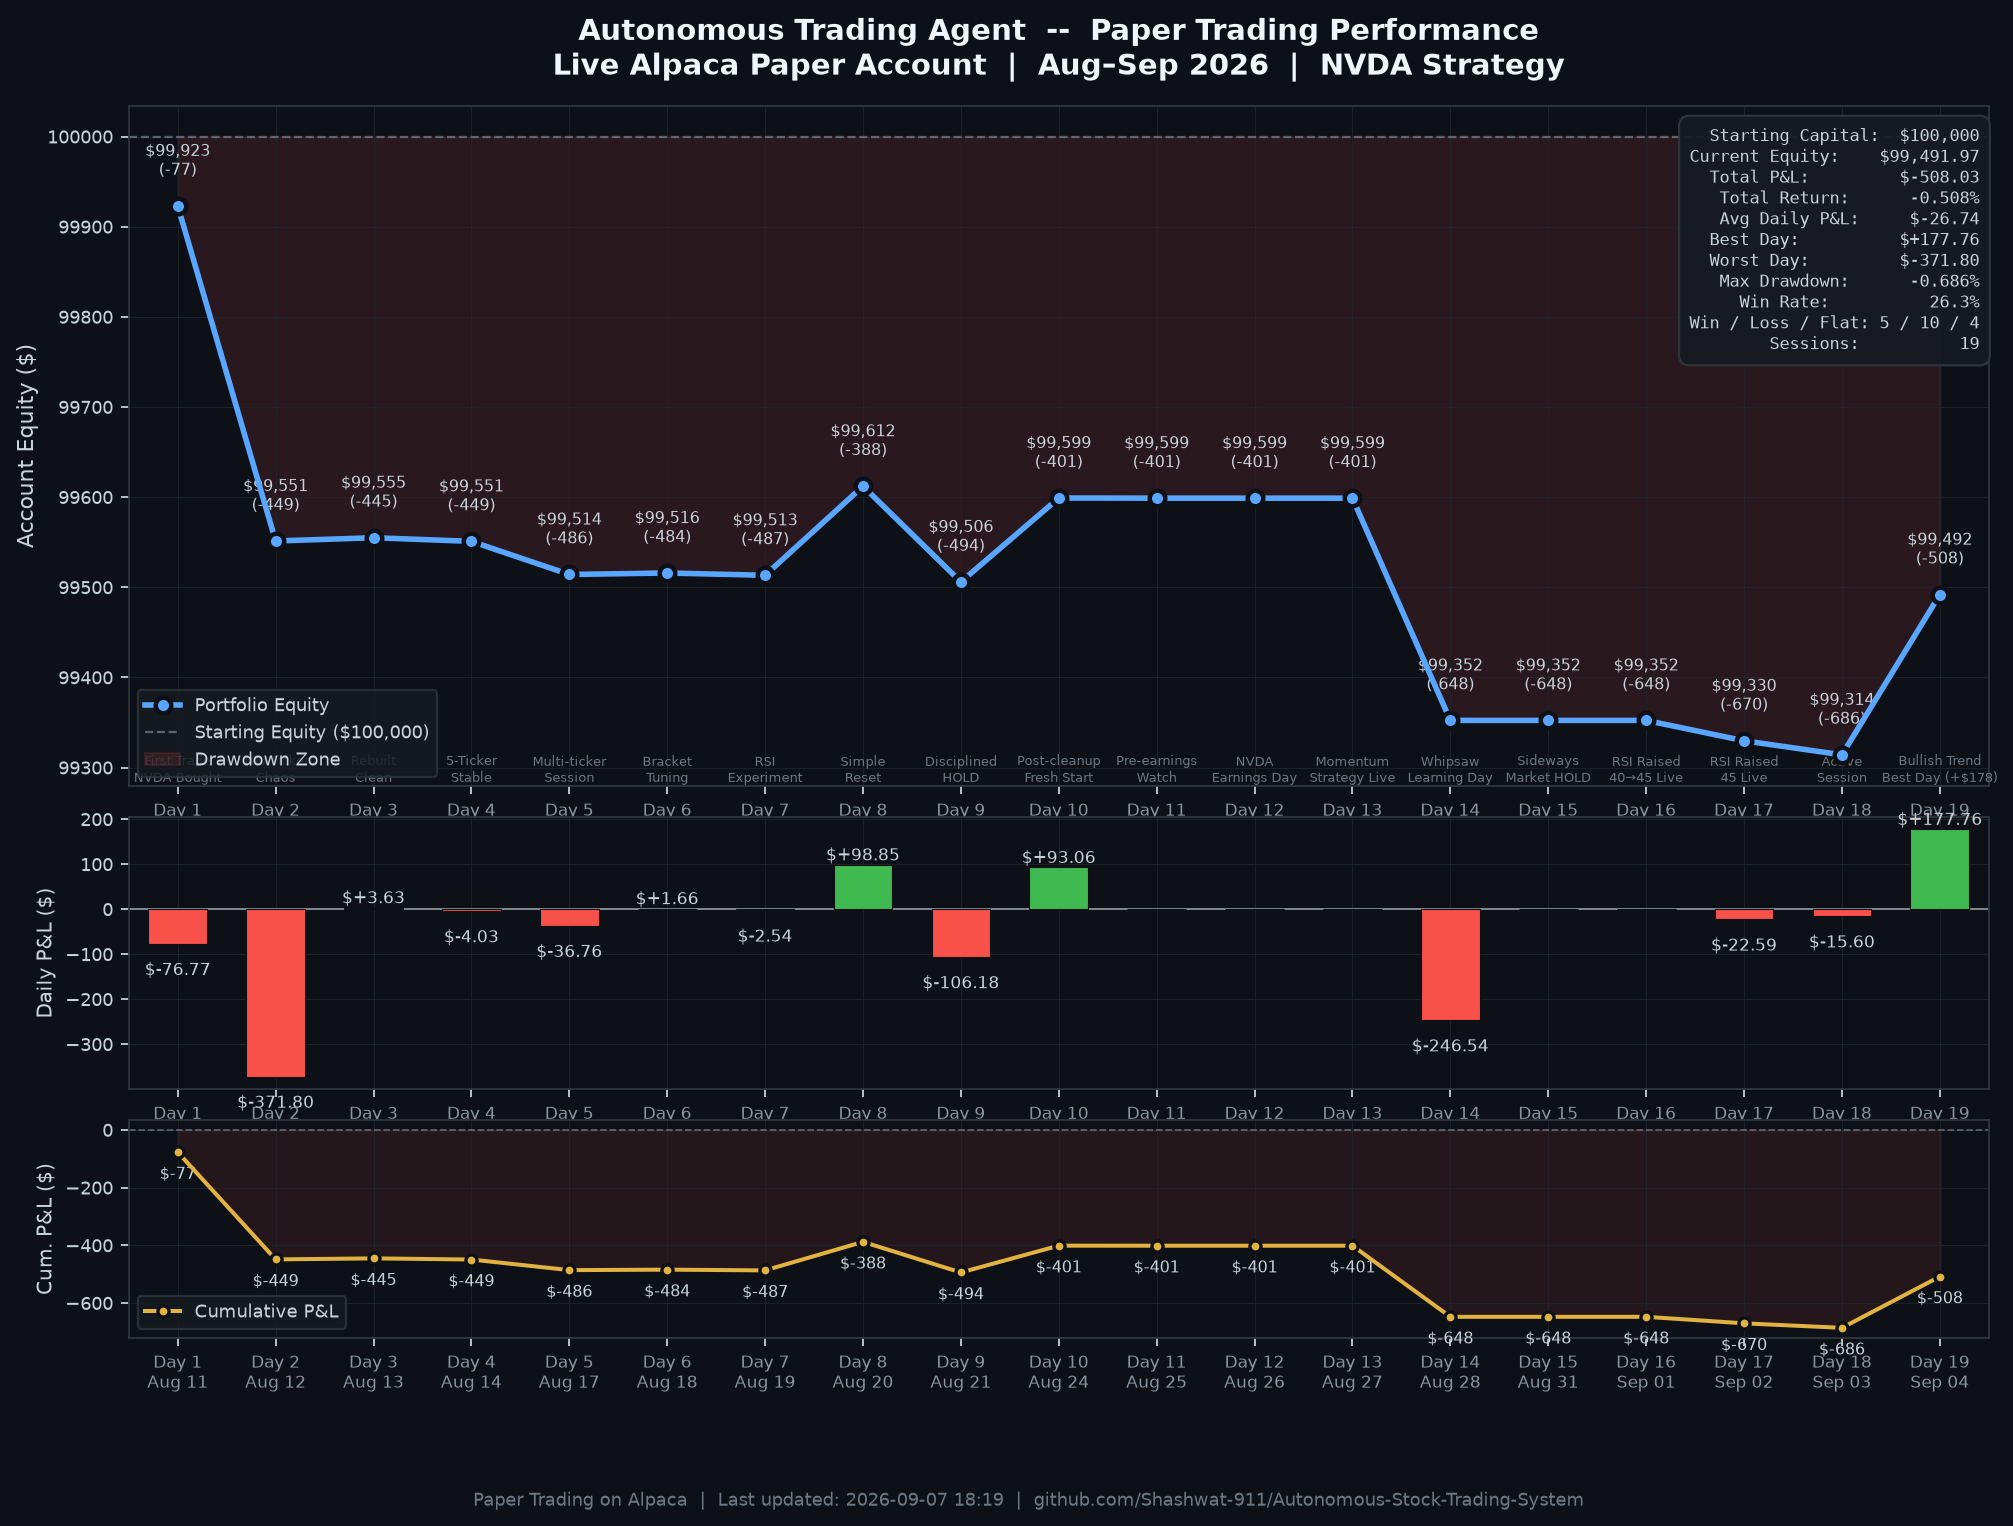
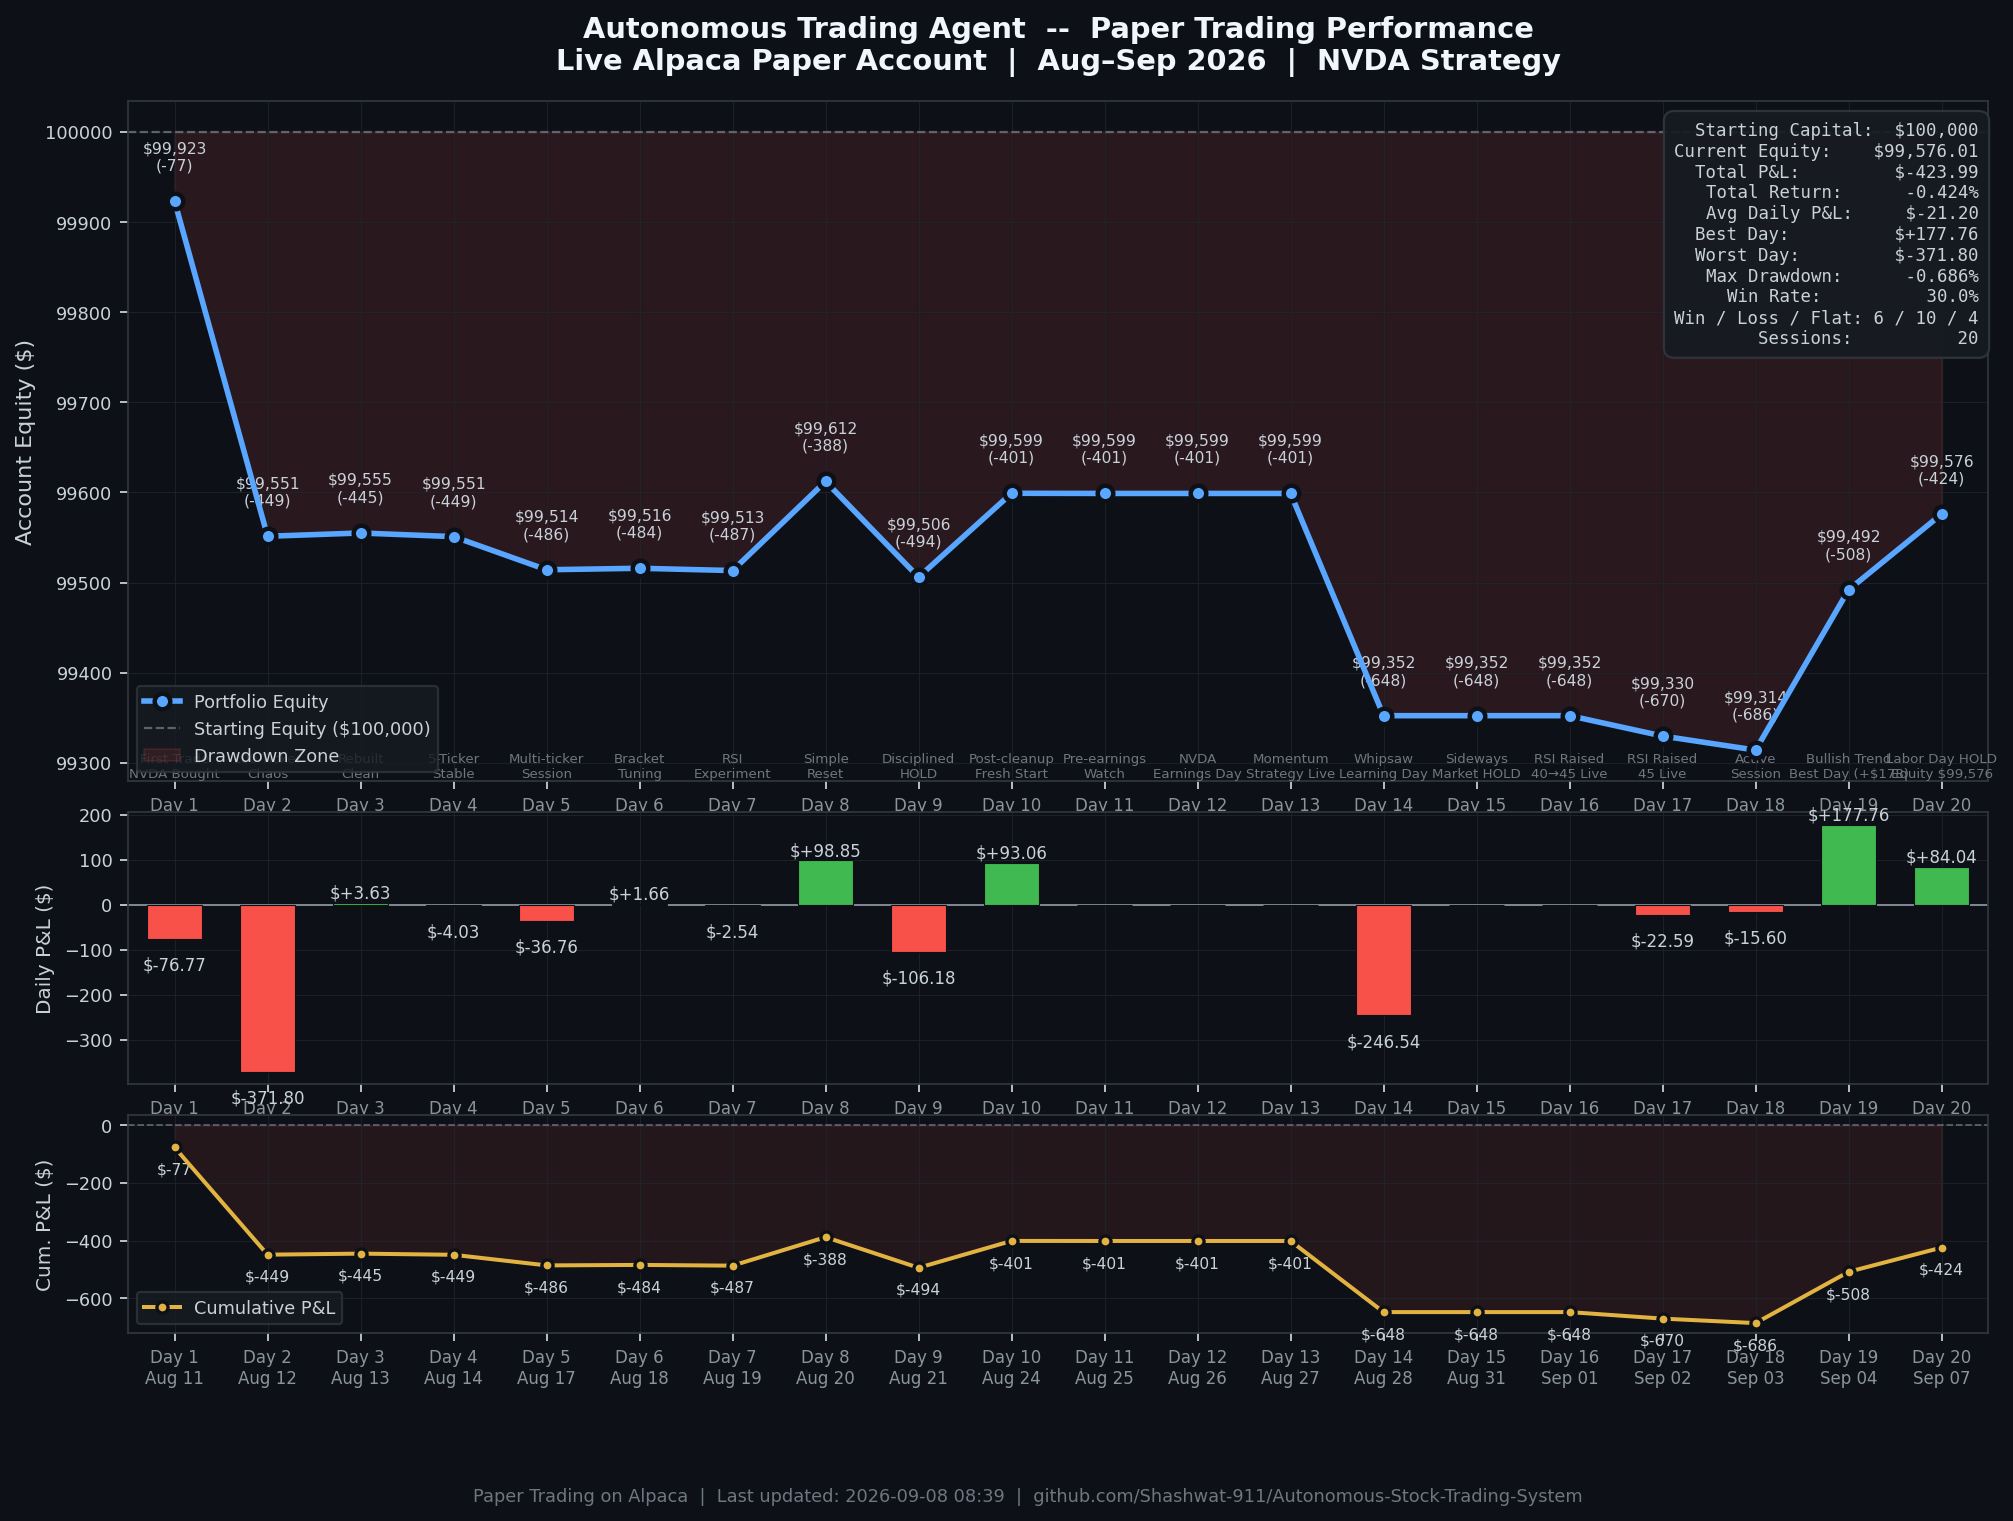
auto(session): update Day 20 equity history, pnl chart, and README table

diff --git a/README.md b/README.md
@@ -73,8 +73,9 @@ The automated trading bot is deployed in the cloud on Render with continuous mon
 | **Day 17** | Sep 02 (Wed) | $99,329.81 | -$22.59 | -$670.19 | -0.670% | RSI Threshold Adjusted to 45 |
 | **Day 18** | Sep 03 (Thu) | $99,314.21 | -$15.60 | -$685.79 | -0.686% | Active Session |
 | **Day 19** | Sep 04 (Fri) | $99,491.97 | **+$177.76** | -$508.03 | -0.508% | Bullish Rally - Disciplined HOLD / Best Day (+0.18%) |
+| **Day 20** | Sep 07 (Mon) | $99,576.01 | **+$84.04** | -$423.99 | -0.424% | Labor Day Holiday - Disciplined HOLD / Equity $99,576 |
 
-> **Current Equity**: $99,491.97 | **Total P&L**: $-508.03 | **Best Day**: $+177.76 | **Win Rate**: 26.3% (5W / 10L / 4 Flat) | **Max Drawdown**: -0.686% | **Sessions**: 19
+> **Current Equity**: $99,576.01 | **Total P&L**: $-423.99 | **Best Day**: $+177.76 | **Win Rate**: 30.0% (6W / 10L / 4 Flat) | **Max Drawdown**: -0.686% | **Sessions**: 20
 ---
 
 ## System Architecture
